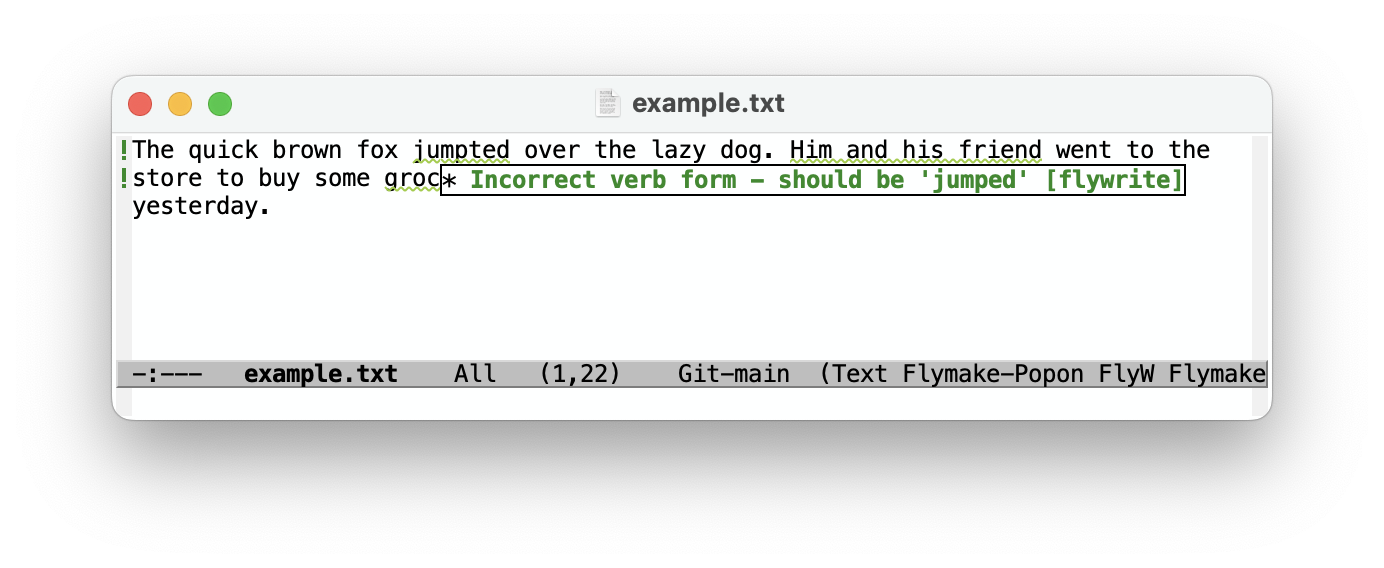
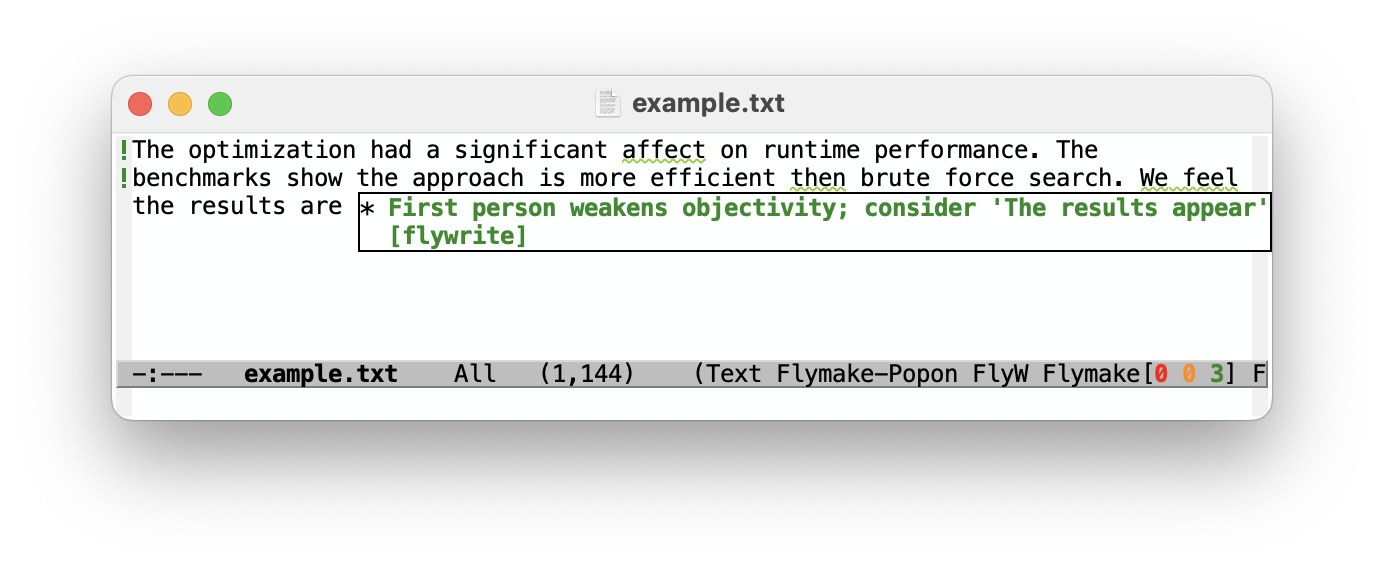
Refocus README on academic writing

Changed region(s): [[0.0932, 0.2394, 0.9321, 0.4489], [0.4971, 0.6285, 0.9321, 0.6884], [0.4039, 0.6285, 0.466, 0.6884]]

diff --git a/README.md b/README.md
@@ -1,6 +1,6 @@
 # flywrite-mode
 
-An Emacs minor mode for grammar, style, and clarity feedback. Like Flyspell, but powered by an LLM. One file, no dependencies. Suggestions appear as flymake diagnostics with inline explanations.
+An Emacs minor mode for grammar, style, and academic writing feedback. Like Flyspell, but powered by an LLM. One file, no dependencies. Suggestions appear as flymake diagnostics with inline explanations.
 
 **Privacy warning:** Flywrite sends your document text to an LLM API.
 
@@ -56,7 +56,7 @@ Configure.
 
 Open a text file and save this content with intentional errors:
 
-> The quick brown fox jumpted over the lazy dog. Him and his friend went to the store to buy some grocerys. The weather was very extremely hot outside yesterday.
+> The optimization had a significant affect on runtime performance. The benchmarks show the approach is more efficient then brute force search. We feel the results are promising.
 
 Run `M-x flywrite-mode`.  As you move or type, flywrite will automatically run checks after a short idle delay.  API responses may take a few seconds.  Move the point over one of the wavy underlines.
 
